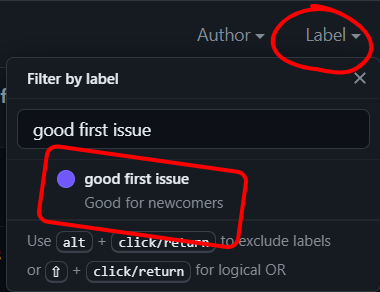
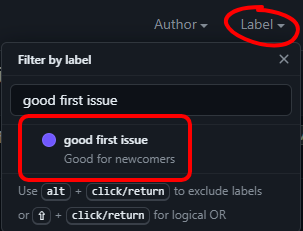
Improve image quality

Changed region(s): [[0.0, 0.2424, 0.9505, 1.0], [0.0297, 0.0, 1.0, 1.0], [0.505, 0.0909, 0.6832, 0.1515]]

diff --git a/documentation/docs/User-information/Creating_issues/Good-issue-practices.md b/documentation/docs/User-information/Creating_issues/Good-issue-practices.md
@@ -9,10 +9,12 @@ description: Learn about what makes a good issue
 It is often difficult to get your problem across effectively when writing an issue. We implemented templates into the repository to help with this. However, if you are new to creating issues we still advise that you read through this list of best practices. Conforming to these will help developers have a deeper understanding of the issue, which in turn will make it much easier to work on it (resulting in a faster resolution).
 
 :::info
-Some issues have been tagged with *good first issue*. If you are particularly struggling with creating an issue, these can be a helpful starting point. Note that you can filter by label to see only these issues (see the below image)
-:::
+Some issues have been tagged with *good first issue*. If you are particularly struggling with creating an issue, these can be a helpful starting point. Note that you can filter by label to see only these issues:
 
+<center>
 ![Screenshot of filtering by label for good first issue](/good-issue-practices/Finding-good-first-issues.png)
+</center>
+:::
 
 ## Make sure the issue does not already exist
 
